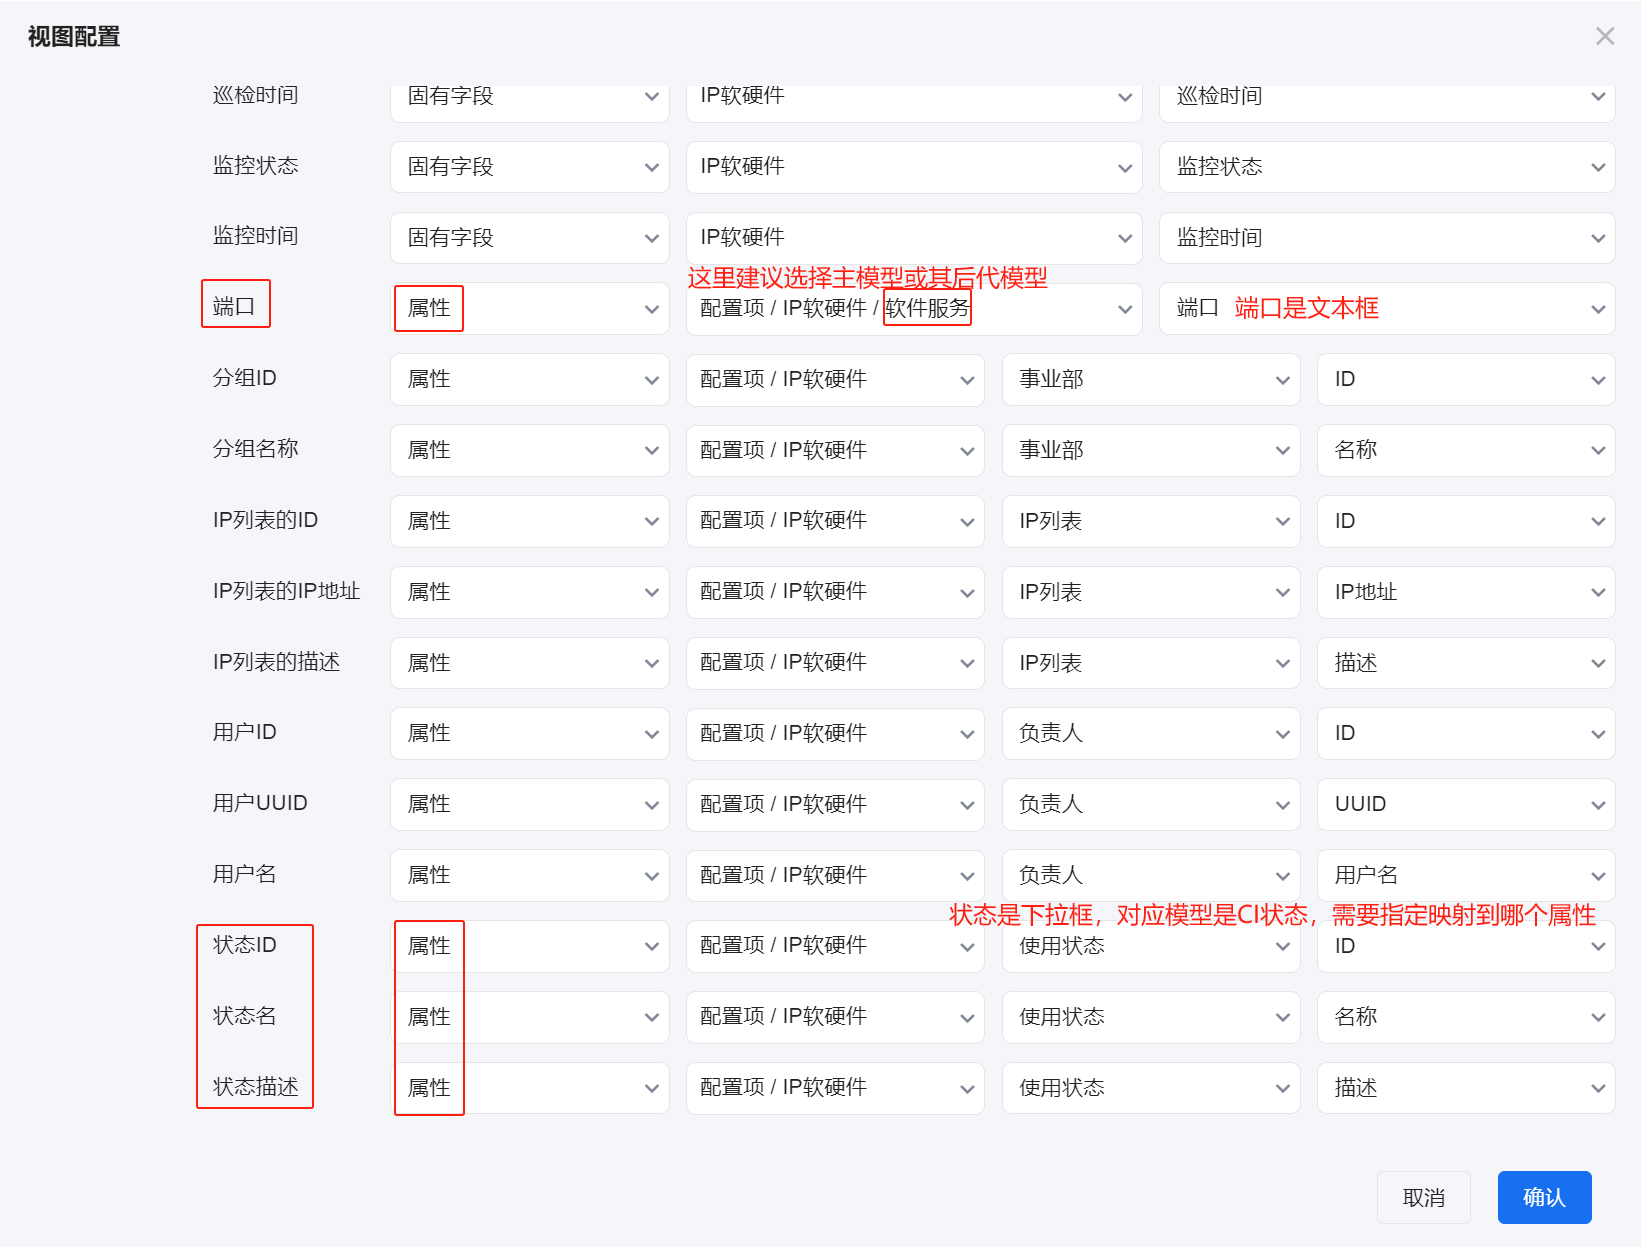
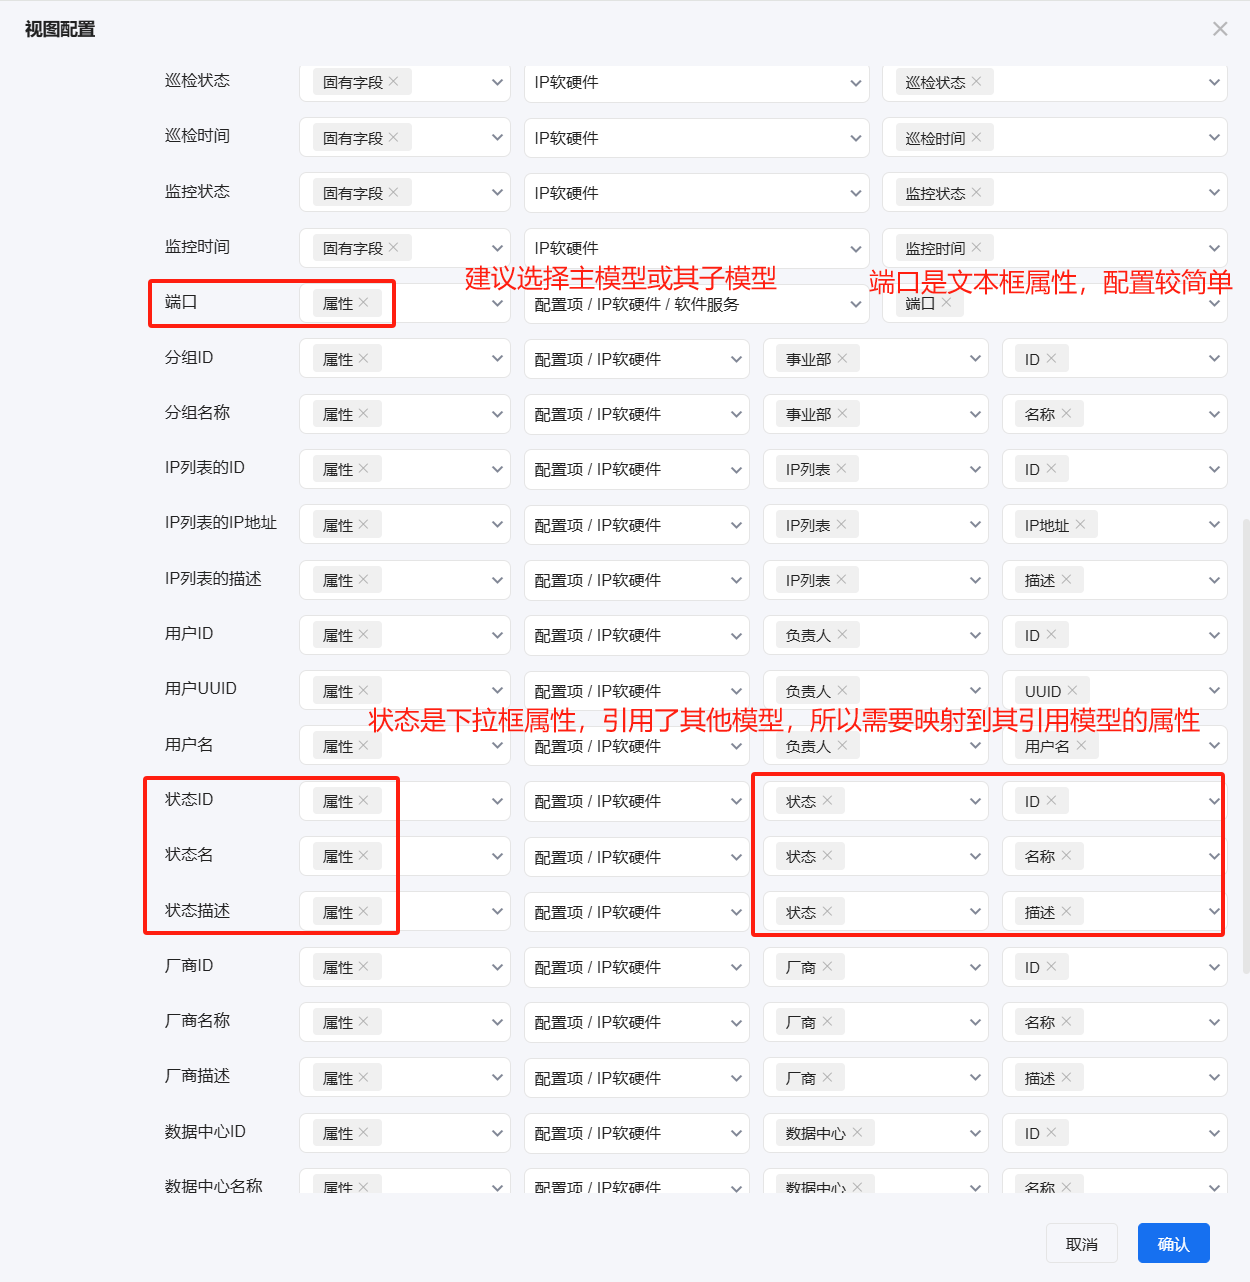
更新视图设置文档

diff --git a/src/main/resources/neatlogic/resources/documentonline/zh/3.配置管理/资源中心/视图设置.md b/src/main/resources/neatlogic/resources/documentonline/zh/3.配置管理/资源中心/视图设置.md
@@ -1,24 +1,32 @@
 # 视图设置
 视图设置页面主要是定义配置模块的视图与配置模型的映射关系配置，映射关系更新后可通过重建视图来更新视图数据。
 
+## 自定义视图
+视图管理支持新增自定义视图，自定义视图数据目前只应用于应用清单页面，视图需关联模板，然后根据所选择的模板生成视图要映射的字段列表。
+![](images/视图设置_自定义视图.png)
+
 ## 视图配置
 下图以应用清单中应用系统数据的视图为例，应用清单的应用系统属性与应用系统模型的自定义属性或者模型的固有属性建立映射关系。
 ![](images/视图设置_视图配置.png)
-1. 主模型，必填且唯一，是映射固有字段的来源模型。
-2. 主模型下的字段列表是写死在代码里面的。
-3. 字段映射模式有五种：固有字段、属性、关系、[全局属性](../系统管理/全局属性管理.md)、为空。
-4. “固有字段”是每个模型都有的隐藏属性，分别是ID、UUID、名称、创建者、创建日期、修改者、修改日期、巡检状态、巡检时间、监控状态、监控时间、类型ID、类型名称、类型Label。
+1. 主模型，必填且唯一，是映射固有字段的来源模型
+   ![](images/视图设置_视图配置_主模型.png)
+2. 主模型可以手动添加其上下游模型，支持多层级关系，这里选择的上下游模型是逐级关联的，选择下级模型时要选择与该模型真实存在上下游关系的模型，否则映射“新关系”的字段无法匹配到数据。
+   ![](images/视图设置_视图配置_下级模型.png)
+3. 视图的字段列表是写死在代码里面的，所有字段都必须配置映射。
+4. 字段映射模式有六种：固有字段、属性、关系、[全局属性](../系统管理/全局属性管理.md)、新关系、为空。
+   
+   “固有字段”是每个模型都有的隐藏属性，分别是ID、UUID、名称、创建者、创建日期、修改者、修改日期、巡检状态、巡检时间、监控状态、监控时间、类型ID、类型名称、类型Label。
    
    ![](images/视图设置_视图配置_固有字段.png)
 
-5. 选择映射“属性”是指字段的映射值来源于某个模型（该模型是主模型或其后代模型）的某个属性，如果属性是下拉框类型属性，还要进一步指定映射该属性模型的哪个属性上。
+   选择映射“属性”是指字段的映射值来源于某个模型（该模型是主模型或其后代模型）的某个属性，如果属性是下拉框类型属性，还要进一步指定映射该属性模型的哪个属性上。
    
    ![](images/视图设置_视图配置_属性映射.png)
 
-6. 关系映射模式是指该字段要映射到某个模型（该模型与主模型或其后代模型有关联关系）的固有属性。
+   新关系映射模式是指该字段要映射到主模型或者其下级模型（上、下游模型）的属性。
+   ![](images/视图设置_视图配置_新关系.png)
    
-   比如应用模块与IP软硬件的后代模型应用实例有关系联系，可以做映射；应用系统与应用模块有关系联系，可以做映射；但是应用系统与IP软硬件没有直接关系联系，不能做映射；需要IP软硬件先与应用模块做映射后，应用系统再与应用模块做映射。
-   ![](images/视图设置_视图配置_关系映射.png)
+
 ## 重建所有视图
 重建所有视图操作是基于当前视图配置更新所有视图的数据。重建成功的视图状态为就绪，重建失败的视图可以通过光标聚焦到失败状态查看失败原因。
 
